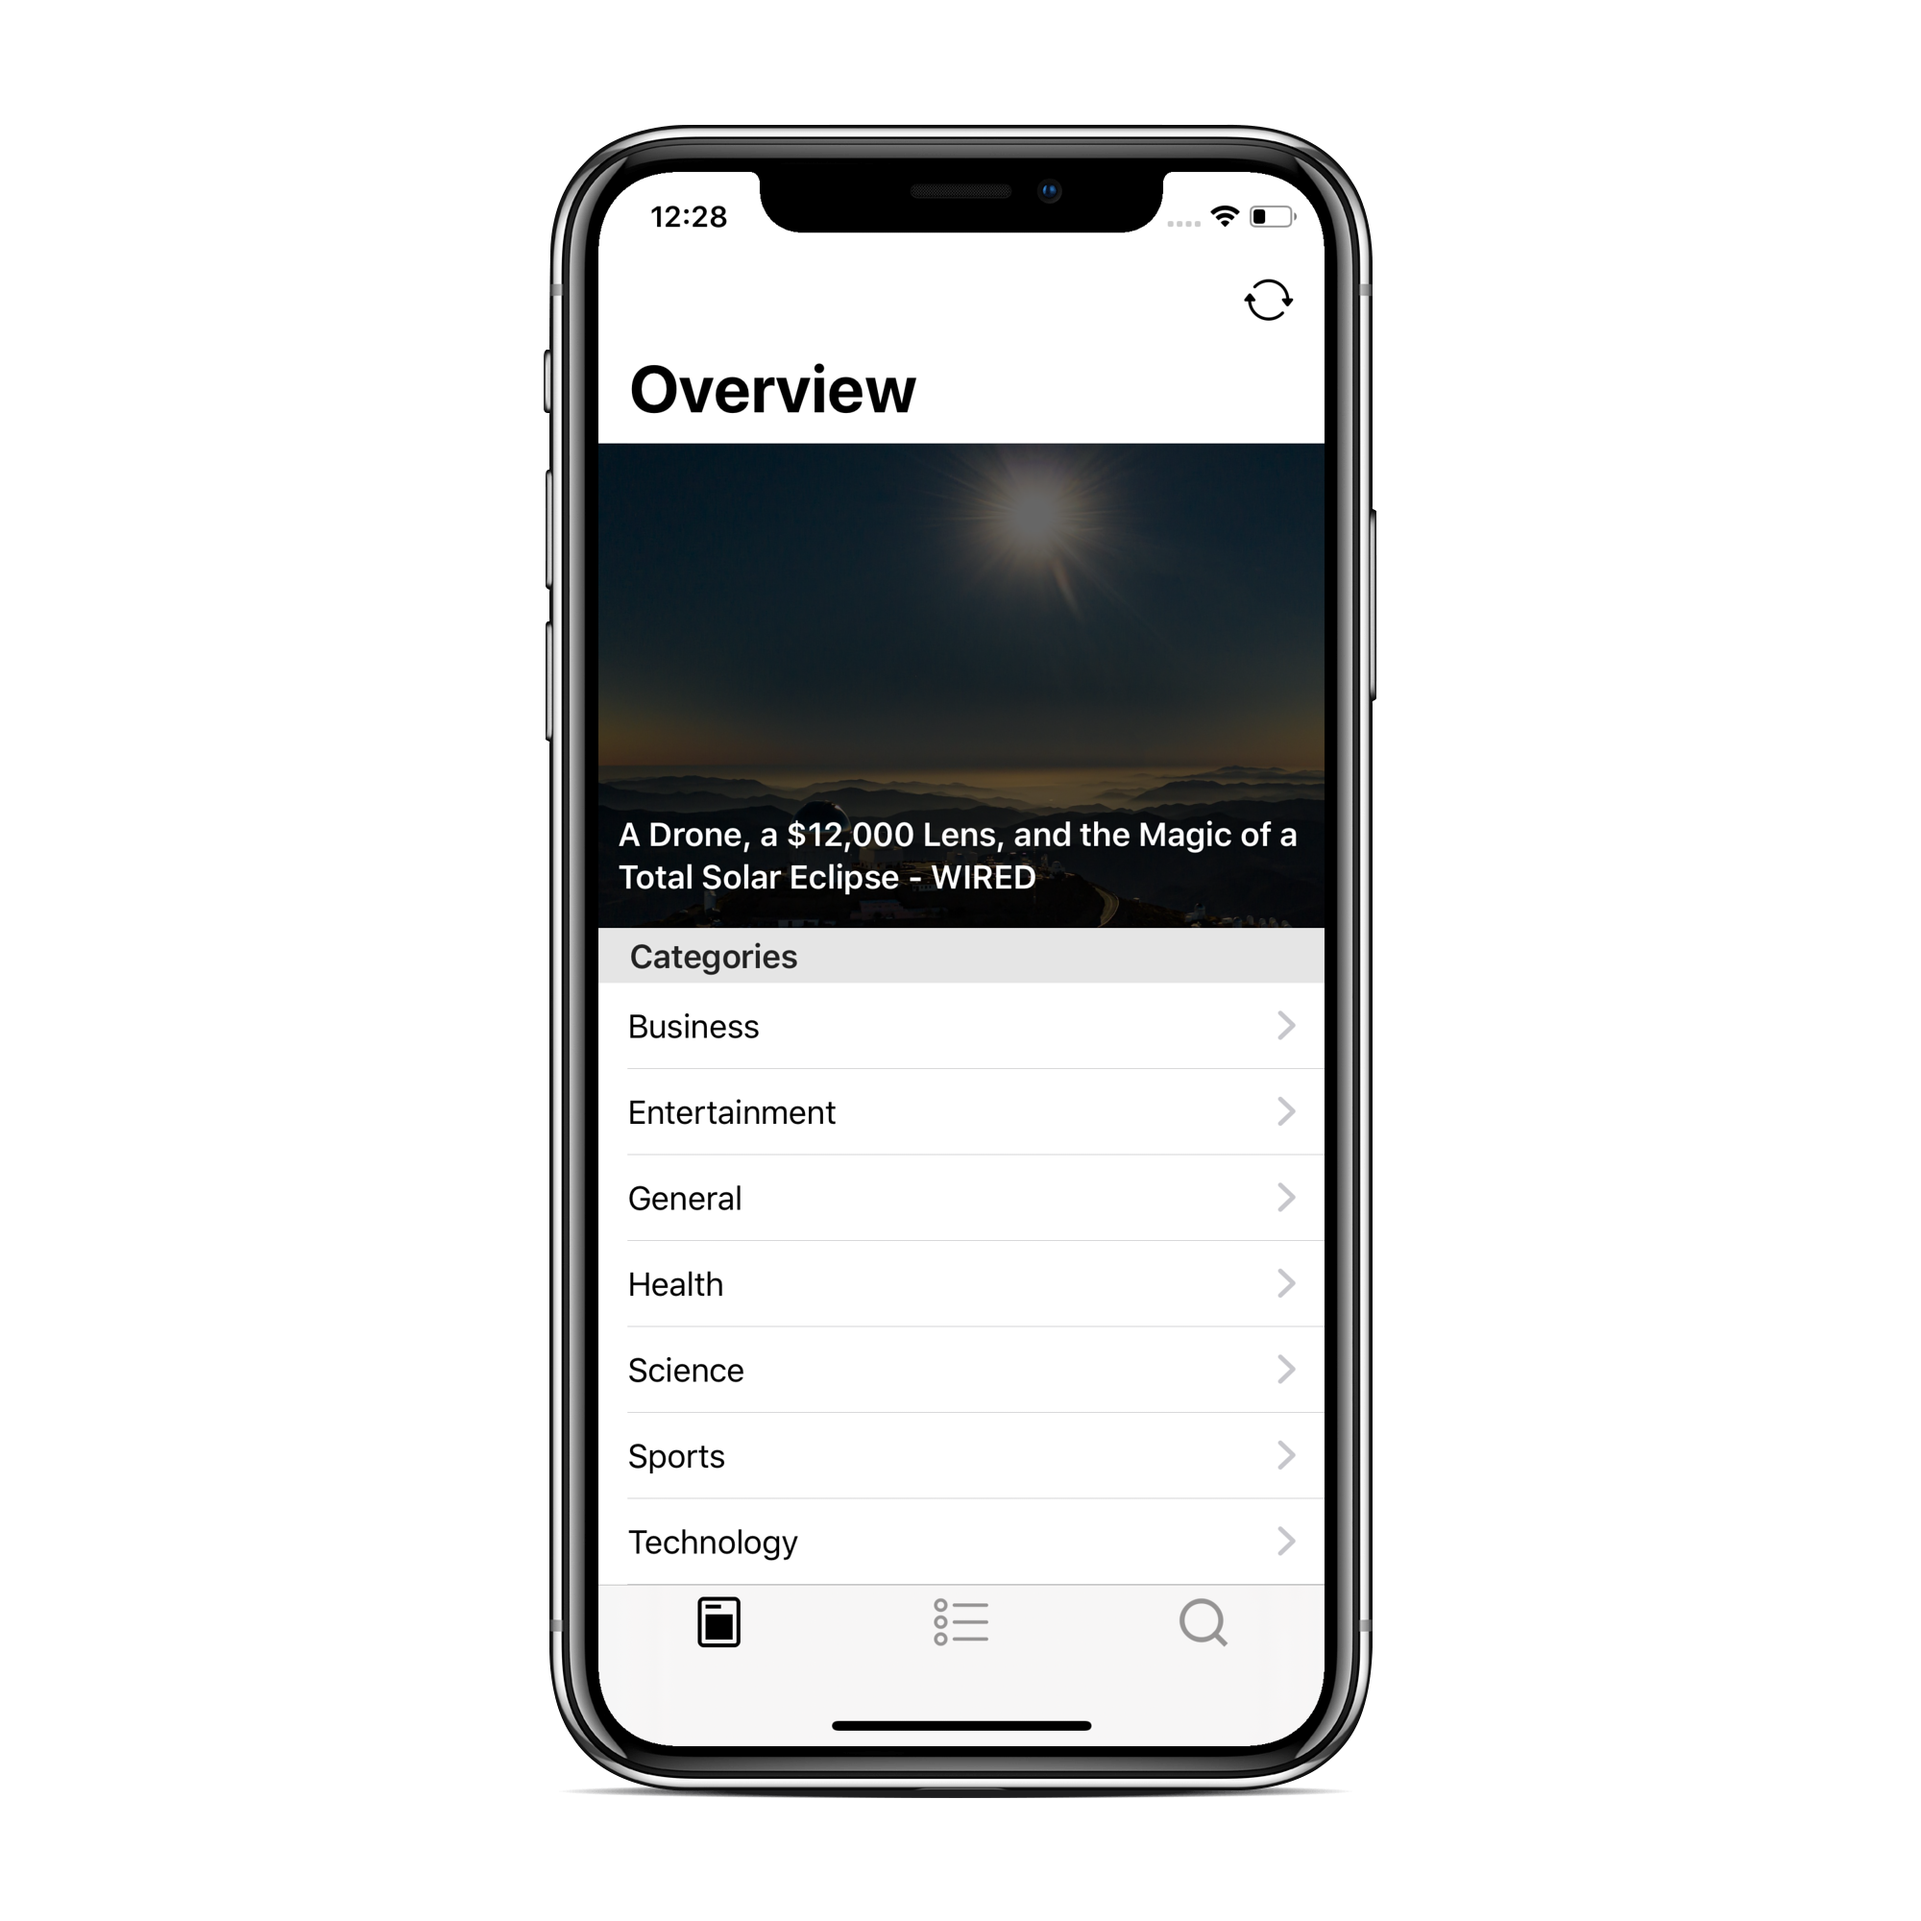
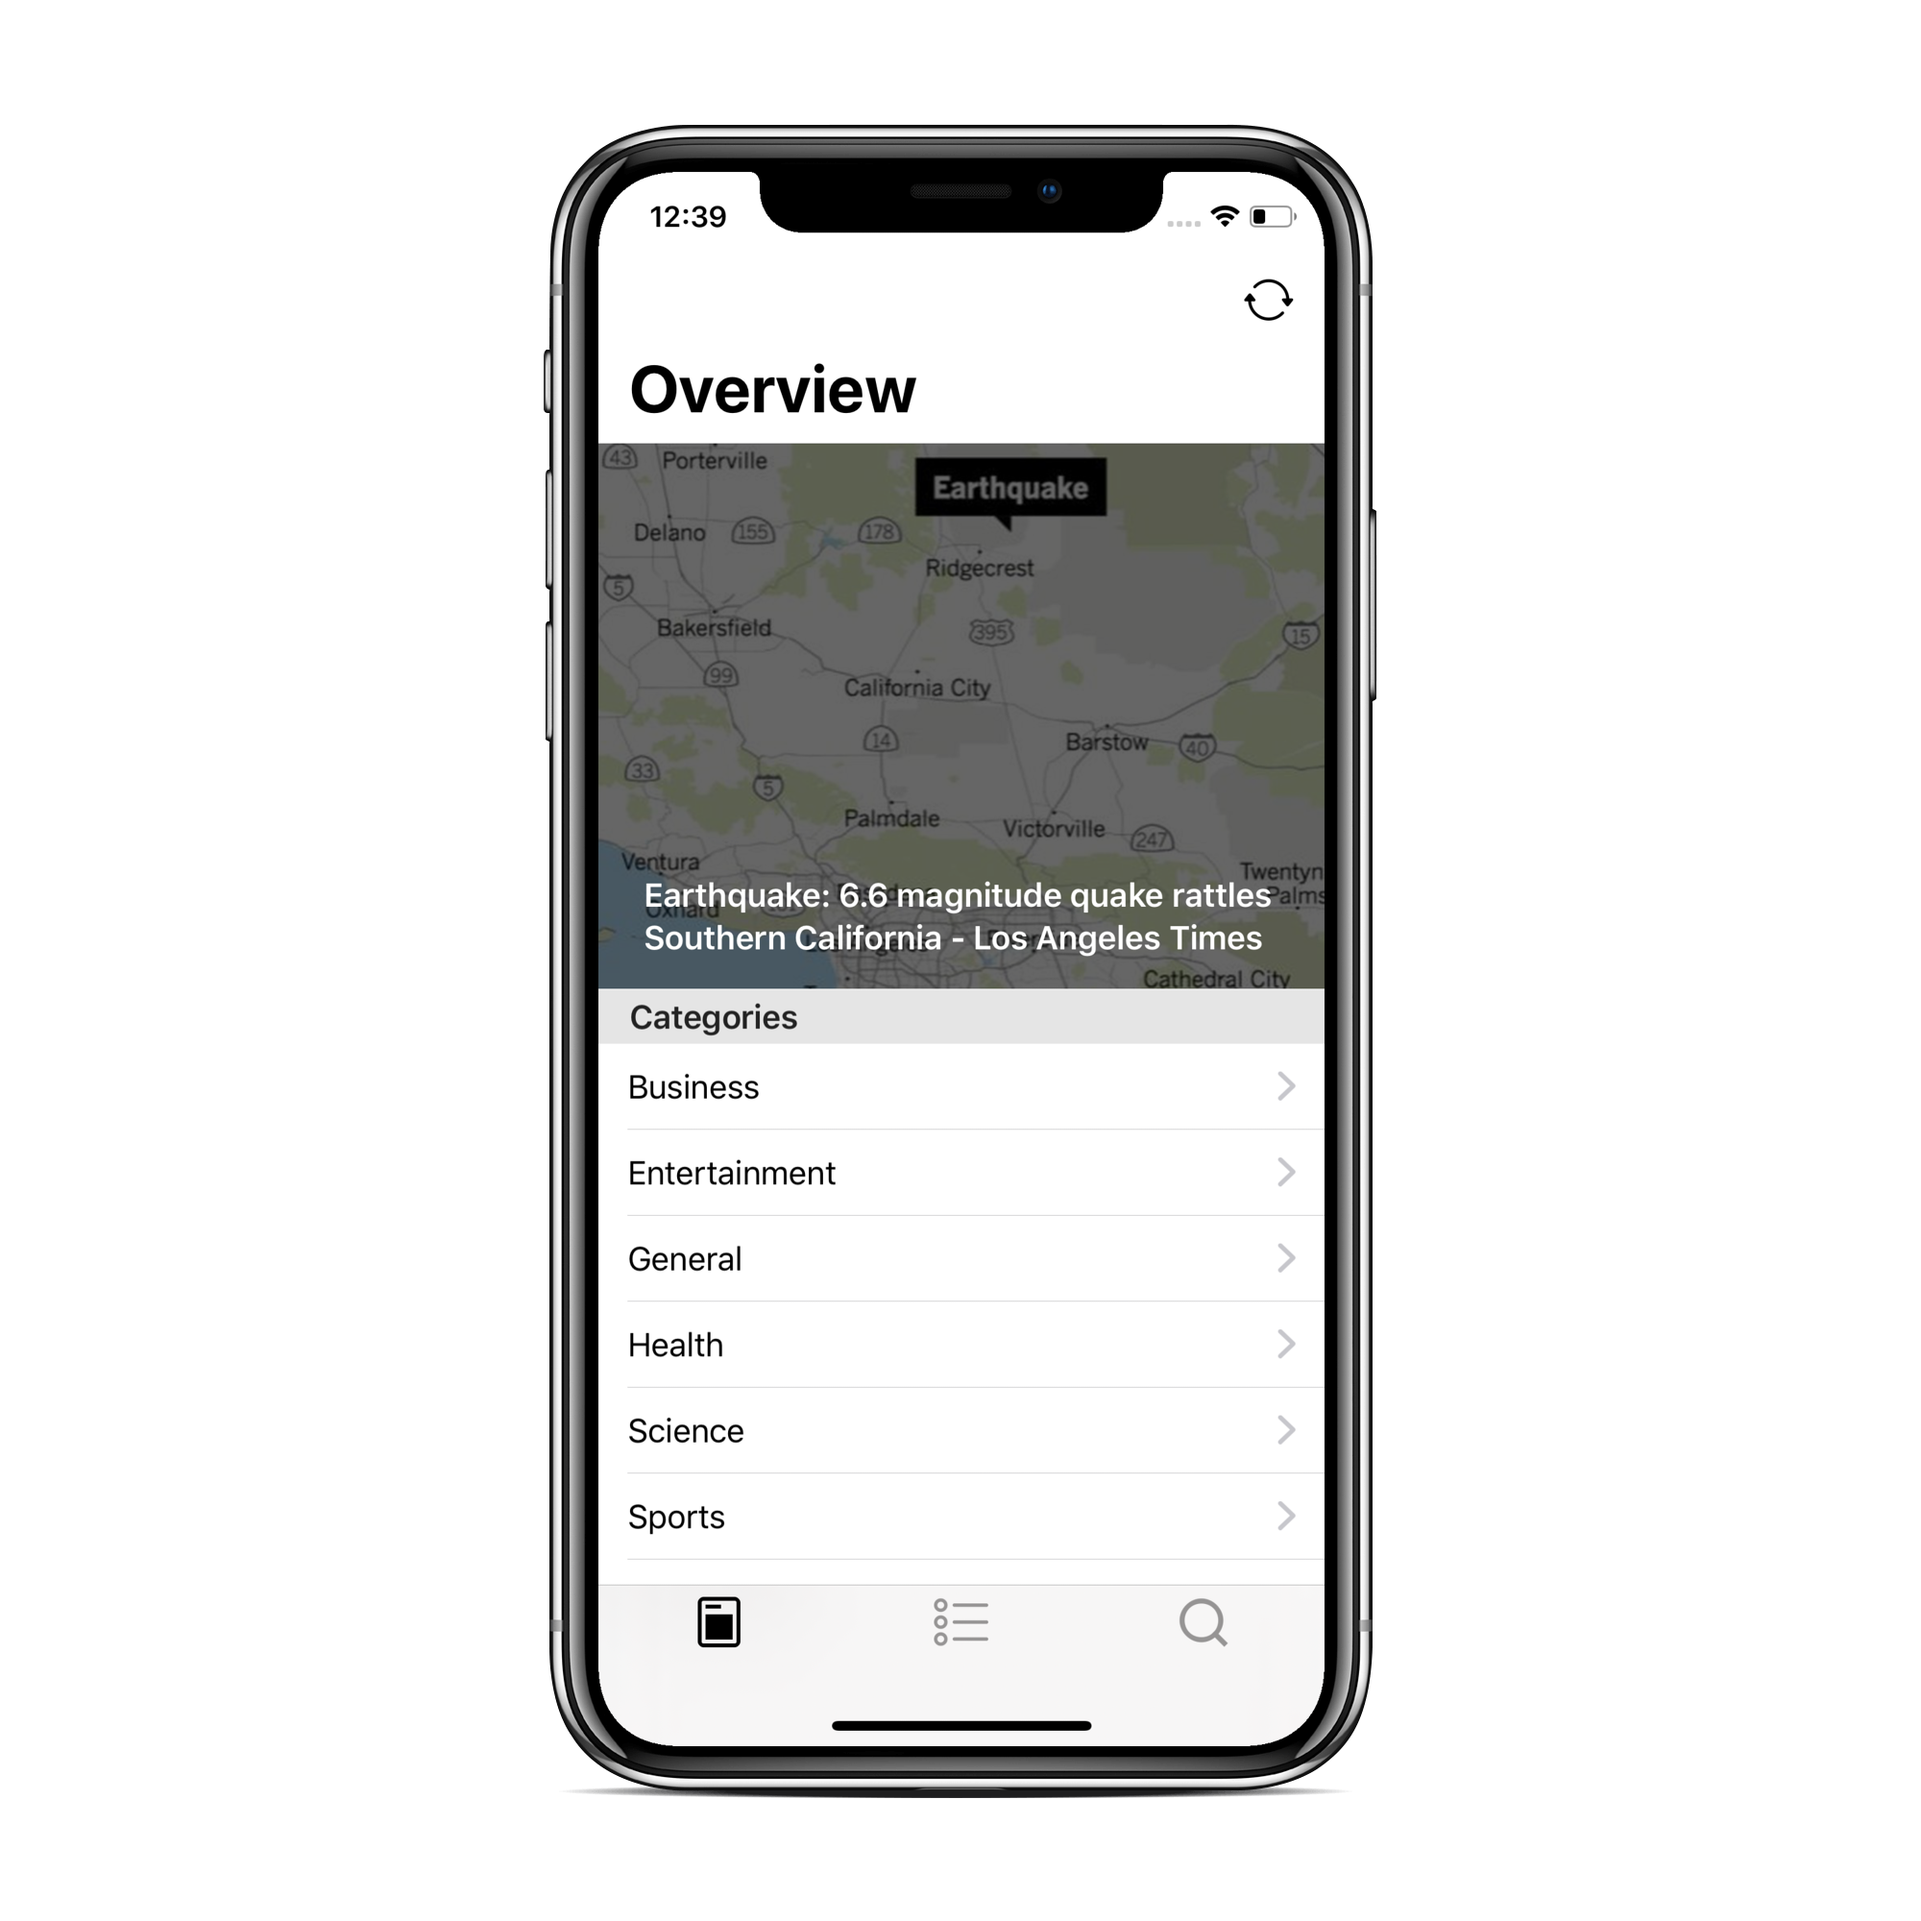
MainView update

Changed region(s): [[0.31, 0.217, 0.713, 0.806], [0.341, 0.093, 0.372, 0.124]]

diff --git a/NewsApp With SwiftUI Framework/UI/MainView/TopHeadlines/TopHeadlineRow.swift b/NewsApp With SwiftUI Framework/UI/MainView/TopHeadlines/TopHeadlineRow.swift
@@ -24,14 +24,14 @@ struct TopHeadlineRow : View {
                 .scaledToFill()
                 .onAppear(perform: downloadWebImage)
                 .frame(width: UIScreen.main.bounds.width,
-                       height: 250,
+                       height: UIScreen.main.bounds.width / 4 * 3,
                        alignment: .center)
             
             Rectangle()
                 .foregroundColor(.black)
                 .opacity(0.6)
                 .frame(width: UIScreen.main.bounds.width,
-                       height: 250,
+                       height: UIScreen.main.bounds.width / 4 * 3,
                        alignment: .center)
             
             Text(verbatim: article.title ?? "")

diff --git a/NewsApp With SwiftUI Framework/UI/MainView/MainView.swift b/NewsApp With SwiftUI Framework/UI/MainView/MainView.swift
@@ -20,7 +20,8 @@ struct MainView : View {
                     TopHeadlinesView(topHeadlines: viewModel.topHeadlines)
                         .clipped()
                         .listRowInsets(EdgeInsets())
-                        .frame(height: 250, alignment: .center)
+                        .frame(height: UIScreen.main.bounds.width / 4 * 3,
+                               alignment: .center)
                 }
                 
                 Section(header: Text(verbatim: "Categories".localized())) {
